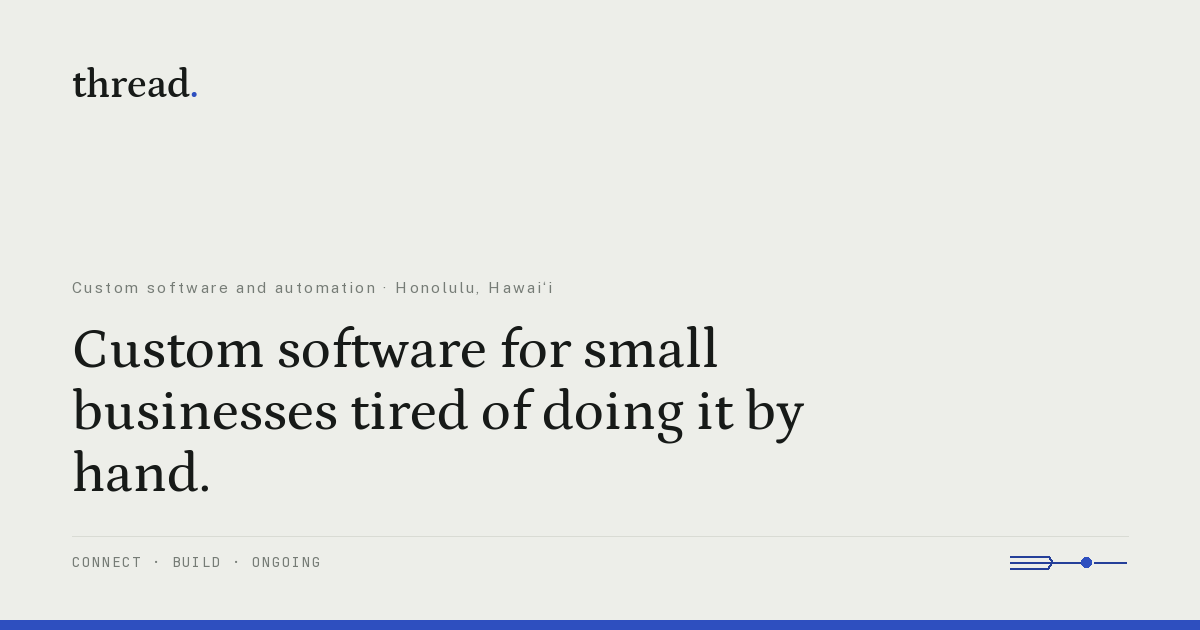
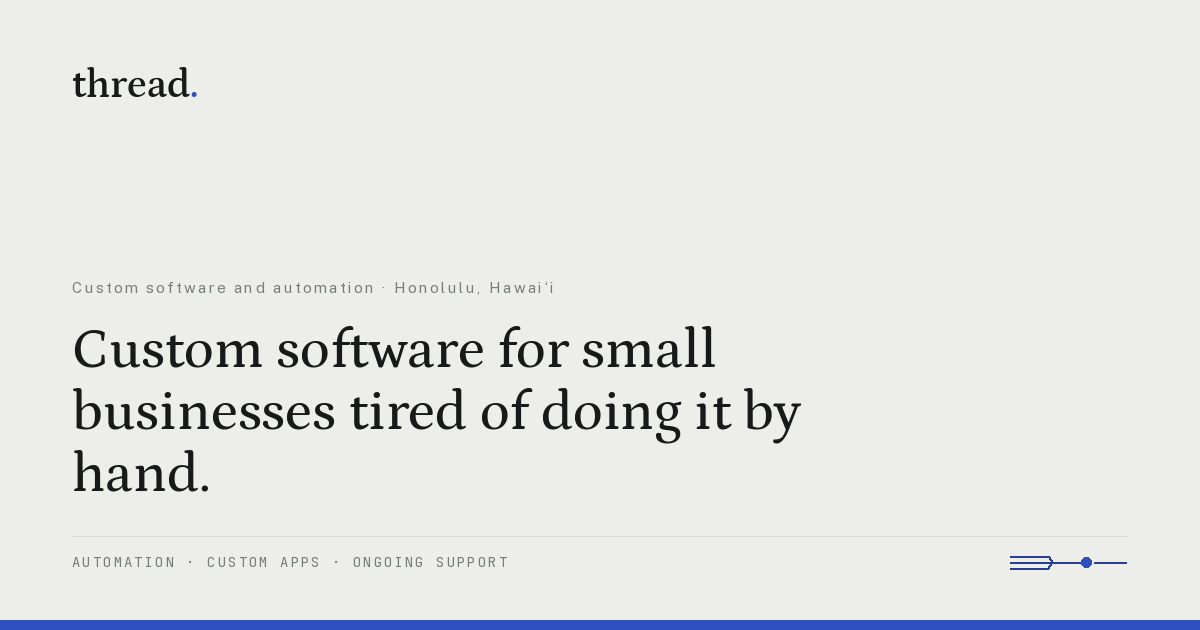
Follow the copy pass into the meta description and the social card
Both were a copy pass behind the page after 081b36e.

The meta description opened "I replace spreadsheets and busywork with simple
tools", which is the hero sentence the owner replaced, so the search snippet
described copy that is no longer on the site. It now follows the new hero at
155 characters, inside Google's truncation.

The card's meta line read "CONNECT · BUILD · ONGOING" — the v3 copy's three
engagements, retired 19 Aug 2026 and by then named on no page at all. It is now
the three offers the homepage actually sells. CLAUDE.md guessed the real names
were too long for the slot; measured, they are 435px in a 896px slot, so that
concern was unfounded. It lives in two files that must change together, /og
being the design of record and build-og.py the renderer that follows it.

The headline is untouched, so og.png changes only in that line. Rebuilt with
scripts/build-og.py and verified at 1200x630: 3 lines at 56px, block top 318 of
630, unchanged from the last build.

diff --git a/src/content/site-v2.ts b/src/content/site-v2.ts
@@ -46,8 +46,12 @@ export { cta, ctaHref } from './site';
 
 export const title =
   'Custom Software and Automation for Small Business | Hawaii and Mainland US';
+/* 155 characters, inside Google's ~160 truncation. Rewritten 2 Sep 2026 to
+   follow the hero: the old one opened "I replace spreadsheets and busywork
+   with simple tools", which is the sentence the owner replaced, so the search
+   snippet was a copy pass behind the page. */
 export const description =
-  'Custom software and automation for small businesses. I replace spreadsheets and busywork with simple tools built around how you already work. Fixed prices, plain English.';
+  'Custom software and automation for small businesses. I turn spreadsheets, sticky notes, and repetitive work into simple software built around how you work.';
 
 export const hero = {
   h1: 'Custom software for small businesses tired of doing it by hand.',

diff --git a/scripts/build-og.py b/scripts/build-og.py
@@ -56,7 +56,12 @@ ACCENT, ACCENT_DARK = "#2E4FBF", "#253F99"
 # homepage on 1 Sep 2026.
 HEADLINE = "Custom software for small businesses tired of doing it by hand."
 EYEBROW = "Custom software and automation · Honolulu, Hawaiʻi"
-META = "CONNECT · BUILD · ONGOING"
+# ⚠ Must match the `.meta` span in src/pages/og.astro, which is the design of
+# record; this renderer follows it. Changed 2 Sep 2026: it read
+# "CONNECT · BUILD · ONGOING", the v3 copy's three engagements, retired
+# 19 Aug 2026 and by then named on no page at all. These are the three offers
+# the homepage actually sells. Measured at 435px in a 896px slot.
+META = "AUTOMATION · CUSTOM APPS · ONGOING SUPPORT"
 
 W, H = 1200, 630
 PAD_X, PAD_TOP, PAD_BOTTOM = 72, 62, 56
